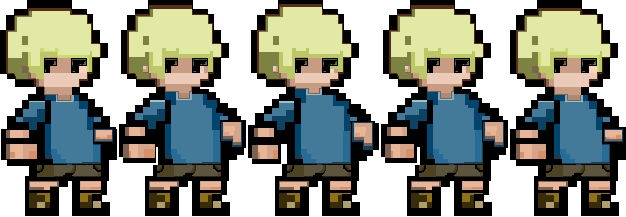
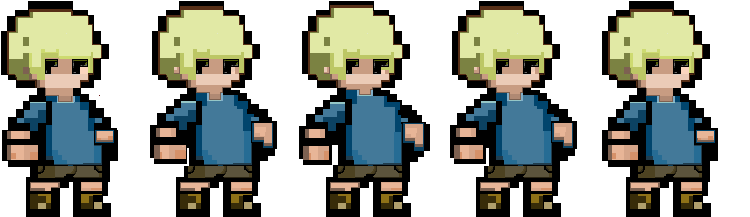
Полностью пофикшена анимация.+ корректное время обработки её

diff --git a/core/src/com/detone_studio/platform/Worker/MyInputProcessor.java b/core/src/com/detone_studio/platform/Worker/MyInputProcessor.java
@@ -3,6 +3,9 @@ package com.detone_studio.platform.Worker;
 import com.badlogic.gdx.InputProcessor;
 import com.detone_studio.platform.States.TestState;
 
+import static com.detone_studio.platform.States.TestState.animation;
+import static com.detone_studio.platform.States.TestState.animtime;
+
 public class MyInputProcessor implements InputProcessor {
     @Override
     public boolean keyDown(int keycode) {
@@ -14,6 +17,16 @@ public class MyInputProcessor implements InputProcessor {
     public boolean keyUp(int keycode) {
         System.out.println("Key pressed :"+keycode);
         switch (keycode){
+            case 144:
+                //animtime+=0.05f;
+                //animation.setCurrentFrameTime(0.7f);
+                //System.out.println("Anim TIME :"+animtime);
+                break;
+            case 56:
+                //animtime-=0.05f;
+                //animation.setCurrentFrameTime(0.7f);
+                //System.out.println("Anim TIME :"+animtime);
+                break;
             case 19:
                 //up
                 TestState.man_y+=5;

diff --git a/core/src/com/detone_studio/platform/States/TestState.java b/core/src/com/detone_studio/platform/States/TestState.java
@@ -14,13 +14,15 @@ public class TestState extends State {
     public static Sprite img;
     InputProcessor inputProcessor;
     public static int man_x,man_y;
-    private Animation animation;
+    public static Animation animation;
     private Texture ima;
+    public static float animtime;
 
     public TestState(GameStateManager gsm) {
         super(gsm);
         ima = new Texture("atlas/idle_char.png");
-        animation = new Animation(new Sprite(ima),5,0.5f);
+        animtime= 0.8f;
+        animation = new Animation(new Sprite(ima),5,animtime);
         img = new Sprite(new Texture("sprites/static_1.png"));
         man_x=10;
         man_y=10;

diff --git a/core/src/com/detone_studio/platform/Sprites/Animation.java b/core/src/com/detone_studio/platform/Sprites/Animation.java
@@ -18,6 +18,7 @@ public class Animation {
     public Animation(TextureRegion region, int frameCount, float cycleTime) {
         frames = new Array<TextureRegion>();
         int frameWidth=region.getRegionWidth()/frameCount;
+        //int frameWidth=
         for (int i=0;i<frameCount;i++){
             frames.add(new TextureRegion(region,i*frameWidth,0,frameWidth,region.getRegionHeight()));
         }
